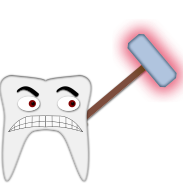
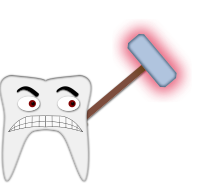
HAMMER ACTION IS A GO!

Changed region(s): [[0.0546, 0.1366, 1.0, 1.0], [0.0273, 0.7104, 0.0546, 0.7377]]

diff --git a/Game/Hammer.py b/Game/Hammer.py
@@ -3,40 +3,37 @@ from Game.Shared.GameConstants import *
 import math
 
 
-class Hammer(pygame.sprite.Sprite):
-    def __init__(self):
-        pygame.sprite.Sprite.__init__(self)
+class Hammer(object):
+    def __init__(self, molarr):
 
+        self.molarr = molarr
         self.image = pygame.transform.rotate(pygame.image.load(HAMMER_IMG), HAMMER_INITIAL_ROTATION_ANGLE)
         self.original = self.image.copy()
         self.rect = self.image.get_rect()
         self.isSwinging = False
-        self.angleIncrementCounter = 1  # multiplier for increment swing angle
-        self.isMovingDown = True  #Toggles whether the hammer is going down or going back up
+        self.swingFrameCounter = 0  # To keep track of which animation frame we're on
+        self.isMovingDown = True  # Toggles whether the hammer is going down or going back up
 
     def update(self):
         if self.isSwinging:
 
-            if self.angleIncrementCounter >= HAMMER_NUM_INCREMENTS_IN_SWING:
+            numFrames = len(self.molarr.frames)
+
+            if self.swingFrameCounter >= numFrames:
                 self.isMovingDown = False
-                self.angleIncrementCounter == HAMMER_NUM_INCREMENTS_IN_SWING
-            elif self.angleIncrementCounter <= 0:
+                self.swingFrameCounter = numFrames - 1
+            elif self.swingFrameCounter < 0:
                 self.isMovingDown = True
-                self.angleIncrementCounter = 1
+                self.swingFrameCounter = 0
                 self.isSwinging = False
 
-            topleft = [self.rect.topleft[0], self.rect.topleft[1]]
-            angle = -1 * self.angleIncrementCounter * HAMMER_ANGLE_INCREMENT_AMOUNT
 
-
-            self.image = pygame.transform.rotate(self.original, angle)
-            self.rect = pygame.Rect(topleft, self.image.get_size())
-
+            self.molarr.image = self.molarr.frames[self.swingFrameCounter]
 
             if self.isMovingDown:
-                self.angleIncrementCounter += 1
+                self.swingFrameCounter += 1
             else:
-                self.angleIncrementCounter -= 1
+                self.swingFrameCounter -= 1
 
 
 

diff --git a/Game/Engine.py b/Game/Engine.py
@@ -2,6 +2,7 @@ import pygame
 from Game.Shared.GameConstants import *
 from Molarr import Molarr
 import sys
+import warnings
 
 
 class Engine(object):
@@ -16,6 +17,14 @@ class Engine(object):
         self.screen = None
         self.clock = None
 
+        self.eventHandlers = [self.handleEvents]
+
+    def handleEvents(self, events):
+        for event in events:
+            if event.type == pygame.QUIT:
+                pygame.quit()
+                exit(0)
+
     def startGame(self):
 
         pygame.init()
@@ -28,6 +37,20 @@ class Engine(object):
         while True:
             self.clock.tick(MAX_FPS)
 
+            #print len(self.eventHandlers)
+            handlers_to_remove = []
+            events = pygame.event.get()
+
+            for handler in self.eventHandlers:
+                try:
+                    handler(events)
+                except Exception as e:
+                    warnings.warn("WARNING: Found zombie event handler. Removing...")
+                    handlers_to_remove.append(handler)
+
+            for handler in handlers_to_remove:
+                self.eventHandlers.remove(handler)
+
             for event in pygame.event.get():
                 if event.type == pygame.QUIT:
                     pygame.quit()
@@ -36,6 +59,8 @@ class Engine(object):
             self.screen.fill(BLACK)
 
             self.player.move()
+
+            self.player.hammer.update()
 
             self.player.render()
 

diff --git a/Game/Molarr.py b/Game/Molarr.py
@@ -1,5 +1,6 @@
 from Game.Shared.Entity import Entity
 from Game.Shared.GameConstants import *
+from Game.Hammer import Hammer
 import pygame
 import numpy as np
 
@@ -10,14 +11,26 @@ class Molarr(Entity):
 
         self.velocity = velocity
         self.sprite = None
+        self.engine = engine
 
+        self.frames = [pygame.image.load(img) for img in MOLARR_SWINGING_IMGS]
         if image is None:
-            self.image = pygame.image.load(MOLARR_IMG)
+            self.image = pygame.image.load(MOLARR_SWINGING_IMGS[0])
         else:
             self.image = image
 
+        self.hammer = Hammer(self)
+
+        self.engine.eventHandlers = [self.handleEvents] + self.engine.eventHandlers
+
         Entity.__init__(self, engine, self.image,
                         velocity, maxSpeed, (0, 0), destination, health)
+
+    def handleEvents(self, events):
+
+        for event in events:
+            if event.type == pygame.MOUSEBUTTONDOWN:
+                self.hammer.isSwinging = True
 
     def move(self):
         mousePosition = np.array(pygame.mouse.get_pos(), np.int32)
@@ -30,3 +43,6 @@ class Molarr(Entity):
             self.velocity = np.round(v).astype(np.int32)
 
             self.setPosition(self.getPosition() + self.velocity)
+
+    def update(self):
+        self.hammer.update()

diff --git a/Game/Shared/Entity.py b/Game/Shared/Entity.py
@@ -30,7 +30,7 @@ class Entity(pygame.sprite.Sprite):
         self.size = np.array(self.image.get_size(), np.int32)
 
     def getPosition(self):
-        return np.array([self.rect.x, self.rect.y], np.int32)
+        return np.array(self.rect.topleft, np.int32)
 
     def getCenter(self):
         return np.ceil(self.getPosition() + self.size.astype(np.float64) / 2.0).astype(np.int32)
@@ -71,7 +71,6 @@ class Entity(pygame.sprite.Sprite):
     def move(self):
         if self.destination is not None:
             v = self.destination.astype(np.float64) - self.getPosition().astype(np.float64)
-            #print "v: " + str(v.tolist())
             length = np.linalg.norm(v)
 
             if length > 0:

diff --git a/Game/Shared/GameConstants.py b/Game/Shared/GameConstants.py
@@ -6,6 +6,11 @@ BLACK = (0, 0, 0)
 SCREEN_SIZE = (1024, 768)
 MAX_FPS = 60
 
+MOLARR_SWINGING_IMGS = []
+
+for i in list(range(30, 101, 10)):
+    MOLARR_SWINGING_IMGS.append(os.path.join("Game", "Assets", "Images", "Hammer" + str(i) + ".png"))
+
 MOLARR_IMG = os.path.join("Game", "Assets", "Images", "Mo'Larr.png")
 HAMMER_IMG = os.path.join("Game", "Assets", "Images", "Hammer.png")
 HAMMER_INITIAL_ROTATION_ANGLE = -30
